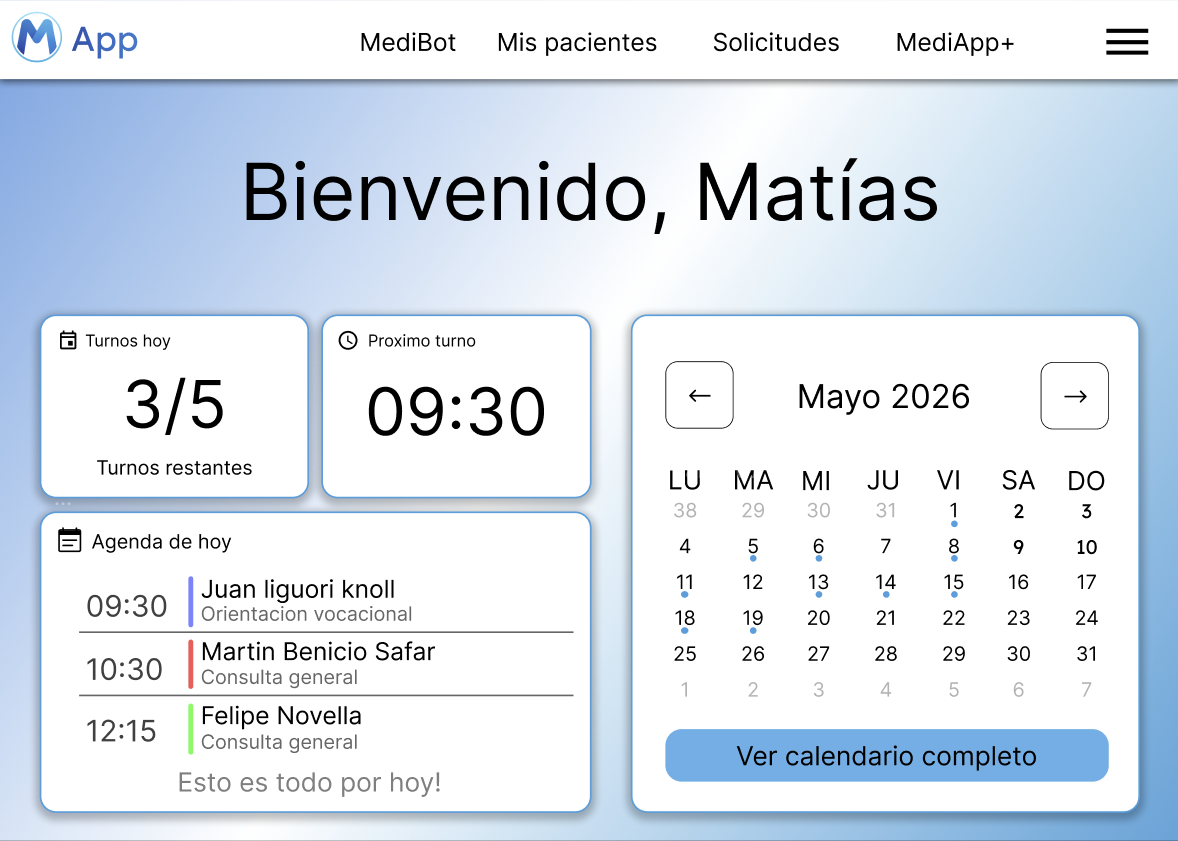
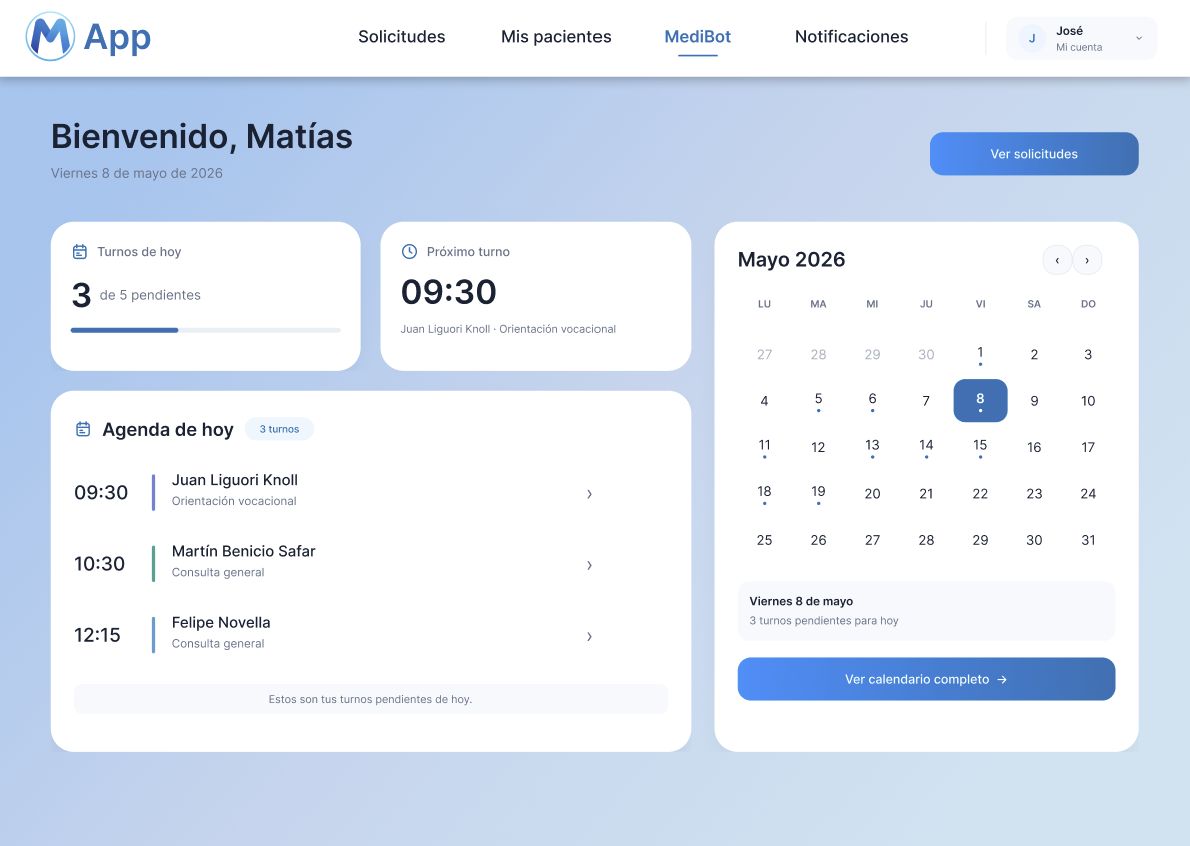
actualizo imagen-bienvenida

diff --git a/Front-end/ProyectoVue-MediApp/src/components/bienvenida.vue b/Front-end/ProyectoVue-MediApp/src/components/bienvenida.vue
@@ -154,7 +154,7 @@ async function iniciarSesionConGoogle() {
   width: 36.8rem;
   height: 26rem;
   background-color: #d9d9d9;
-  border-radius: 1.25rem;
+  border-radius: 1.15rem;
   overflow: hidden;
   box-shadow:
     0 1rem 2.86875rem 1.1875rem rgba(26, 58, 96, 0.19),
